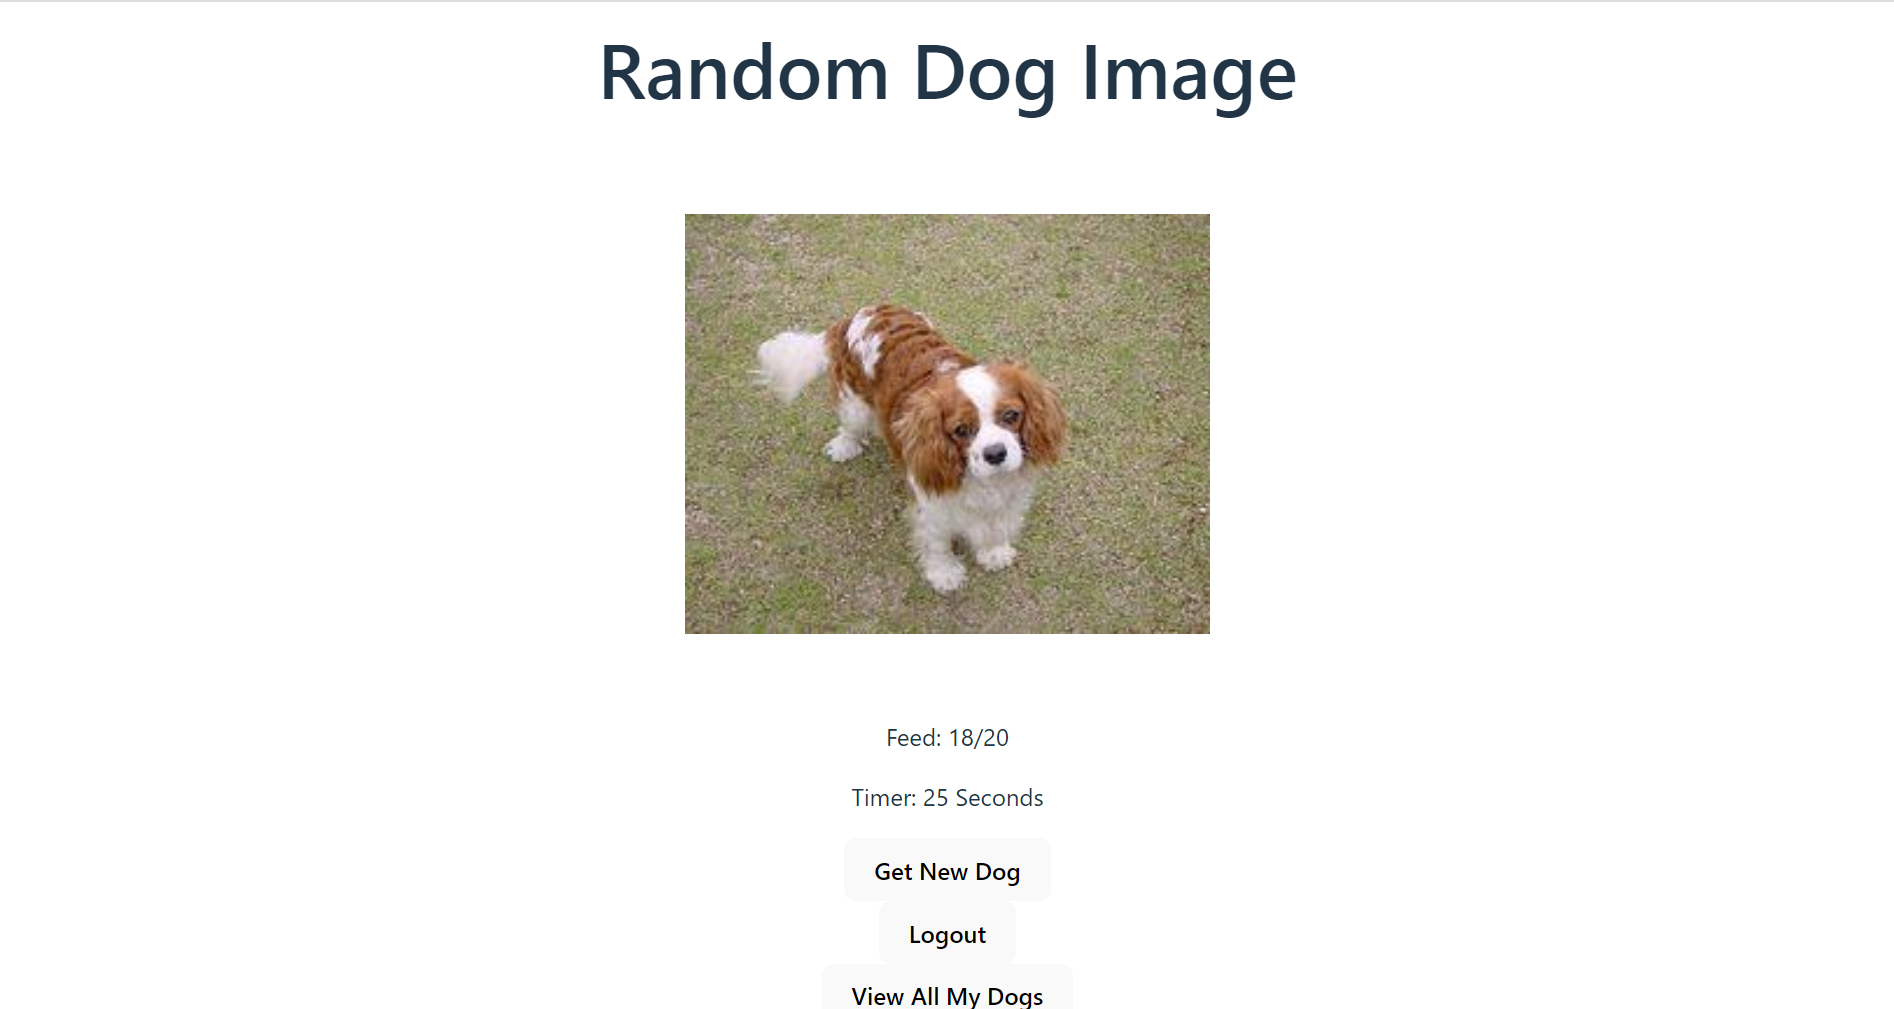
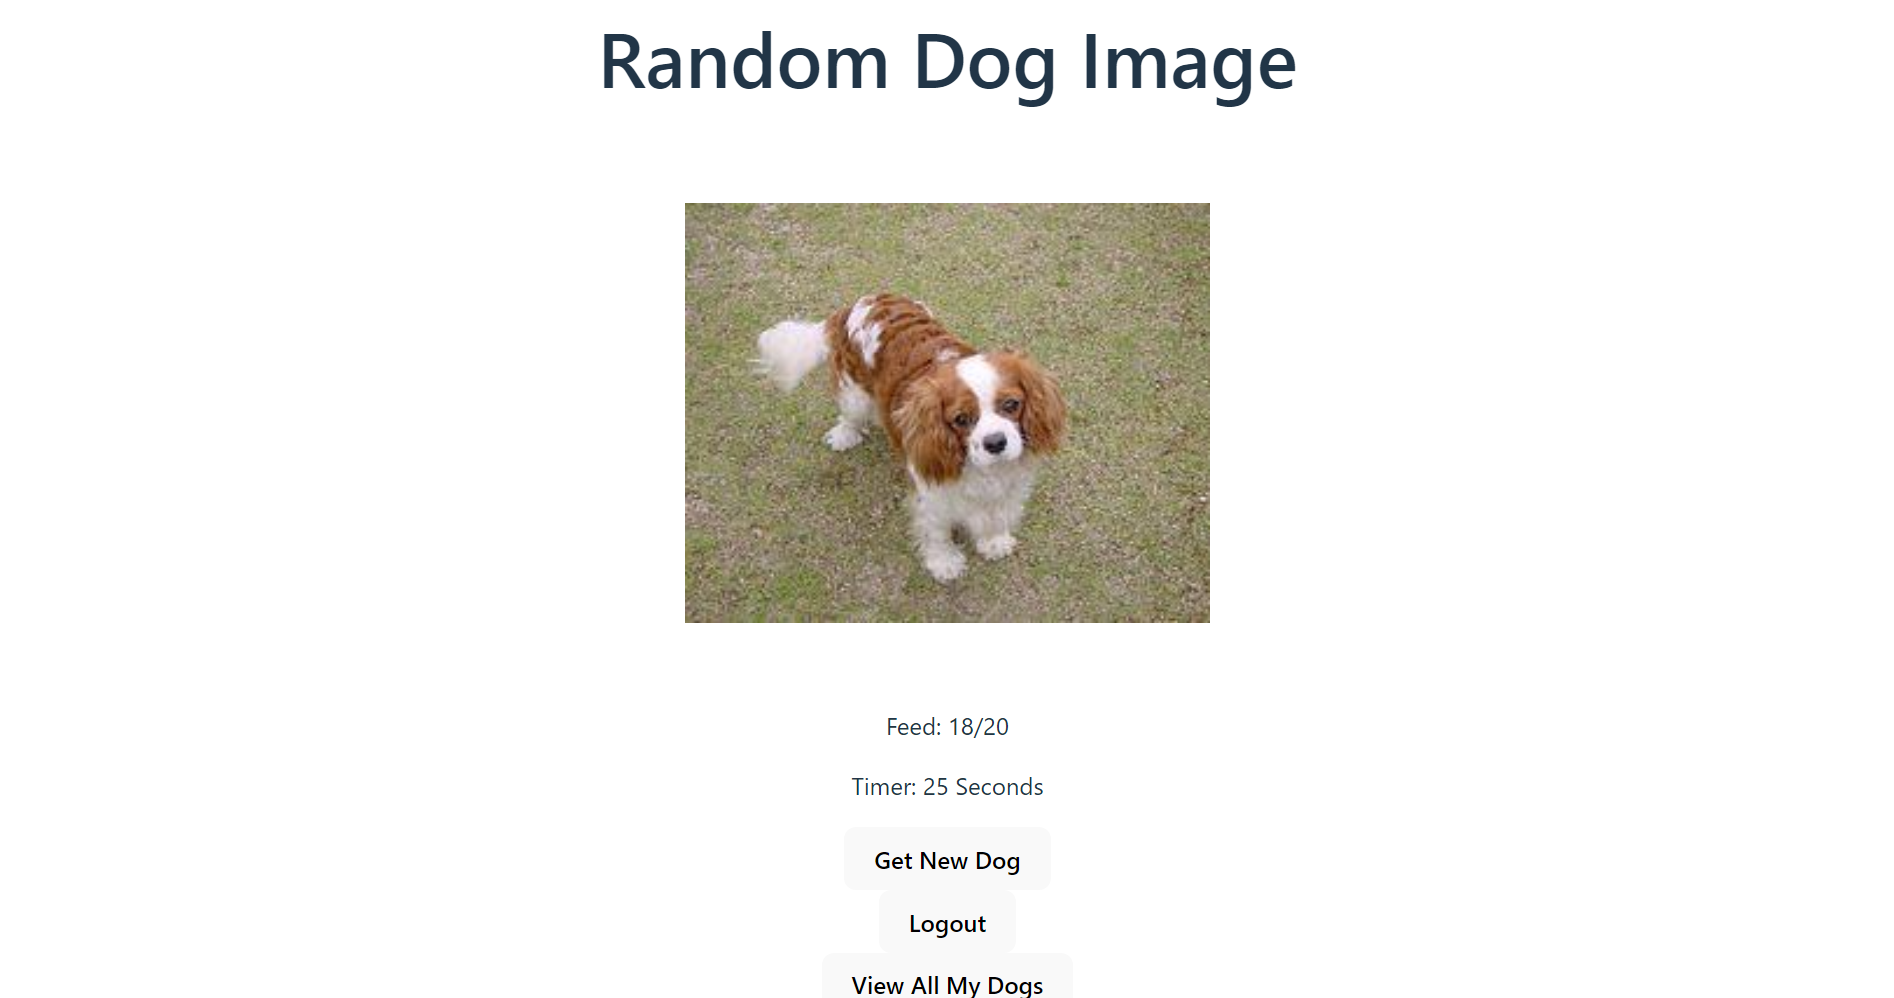
Update slick slider

diff --git a/src/Home.css b/src/Home.css
@@ -70,10 +70,7 @@
   display: flex;
   flex-direction: column;
   align-items: center;
-  width: 80%;
   height: auto;
-  box-shadow: 2px 2px 4px 2px #777777;
-  border-radius: 5px;
   background-color: white;
   transition: background-color 0.3s ease;
   margin: 3px;
@@ -100,7 +97,8 @@
 
 .slick-slider {
   height: auto;
-  width: 80%;
-  margin: 0 5px;
+  width: 50%;
   box-sizing: border-box;
+  box-shadow: 2px 2px 4px 2px #777777;
+  border-radius: 5px;
 }
